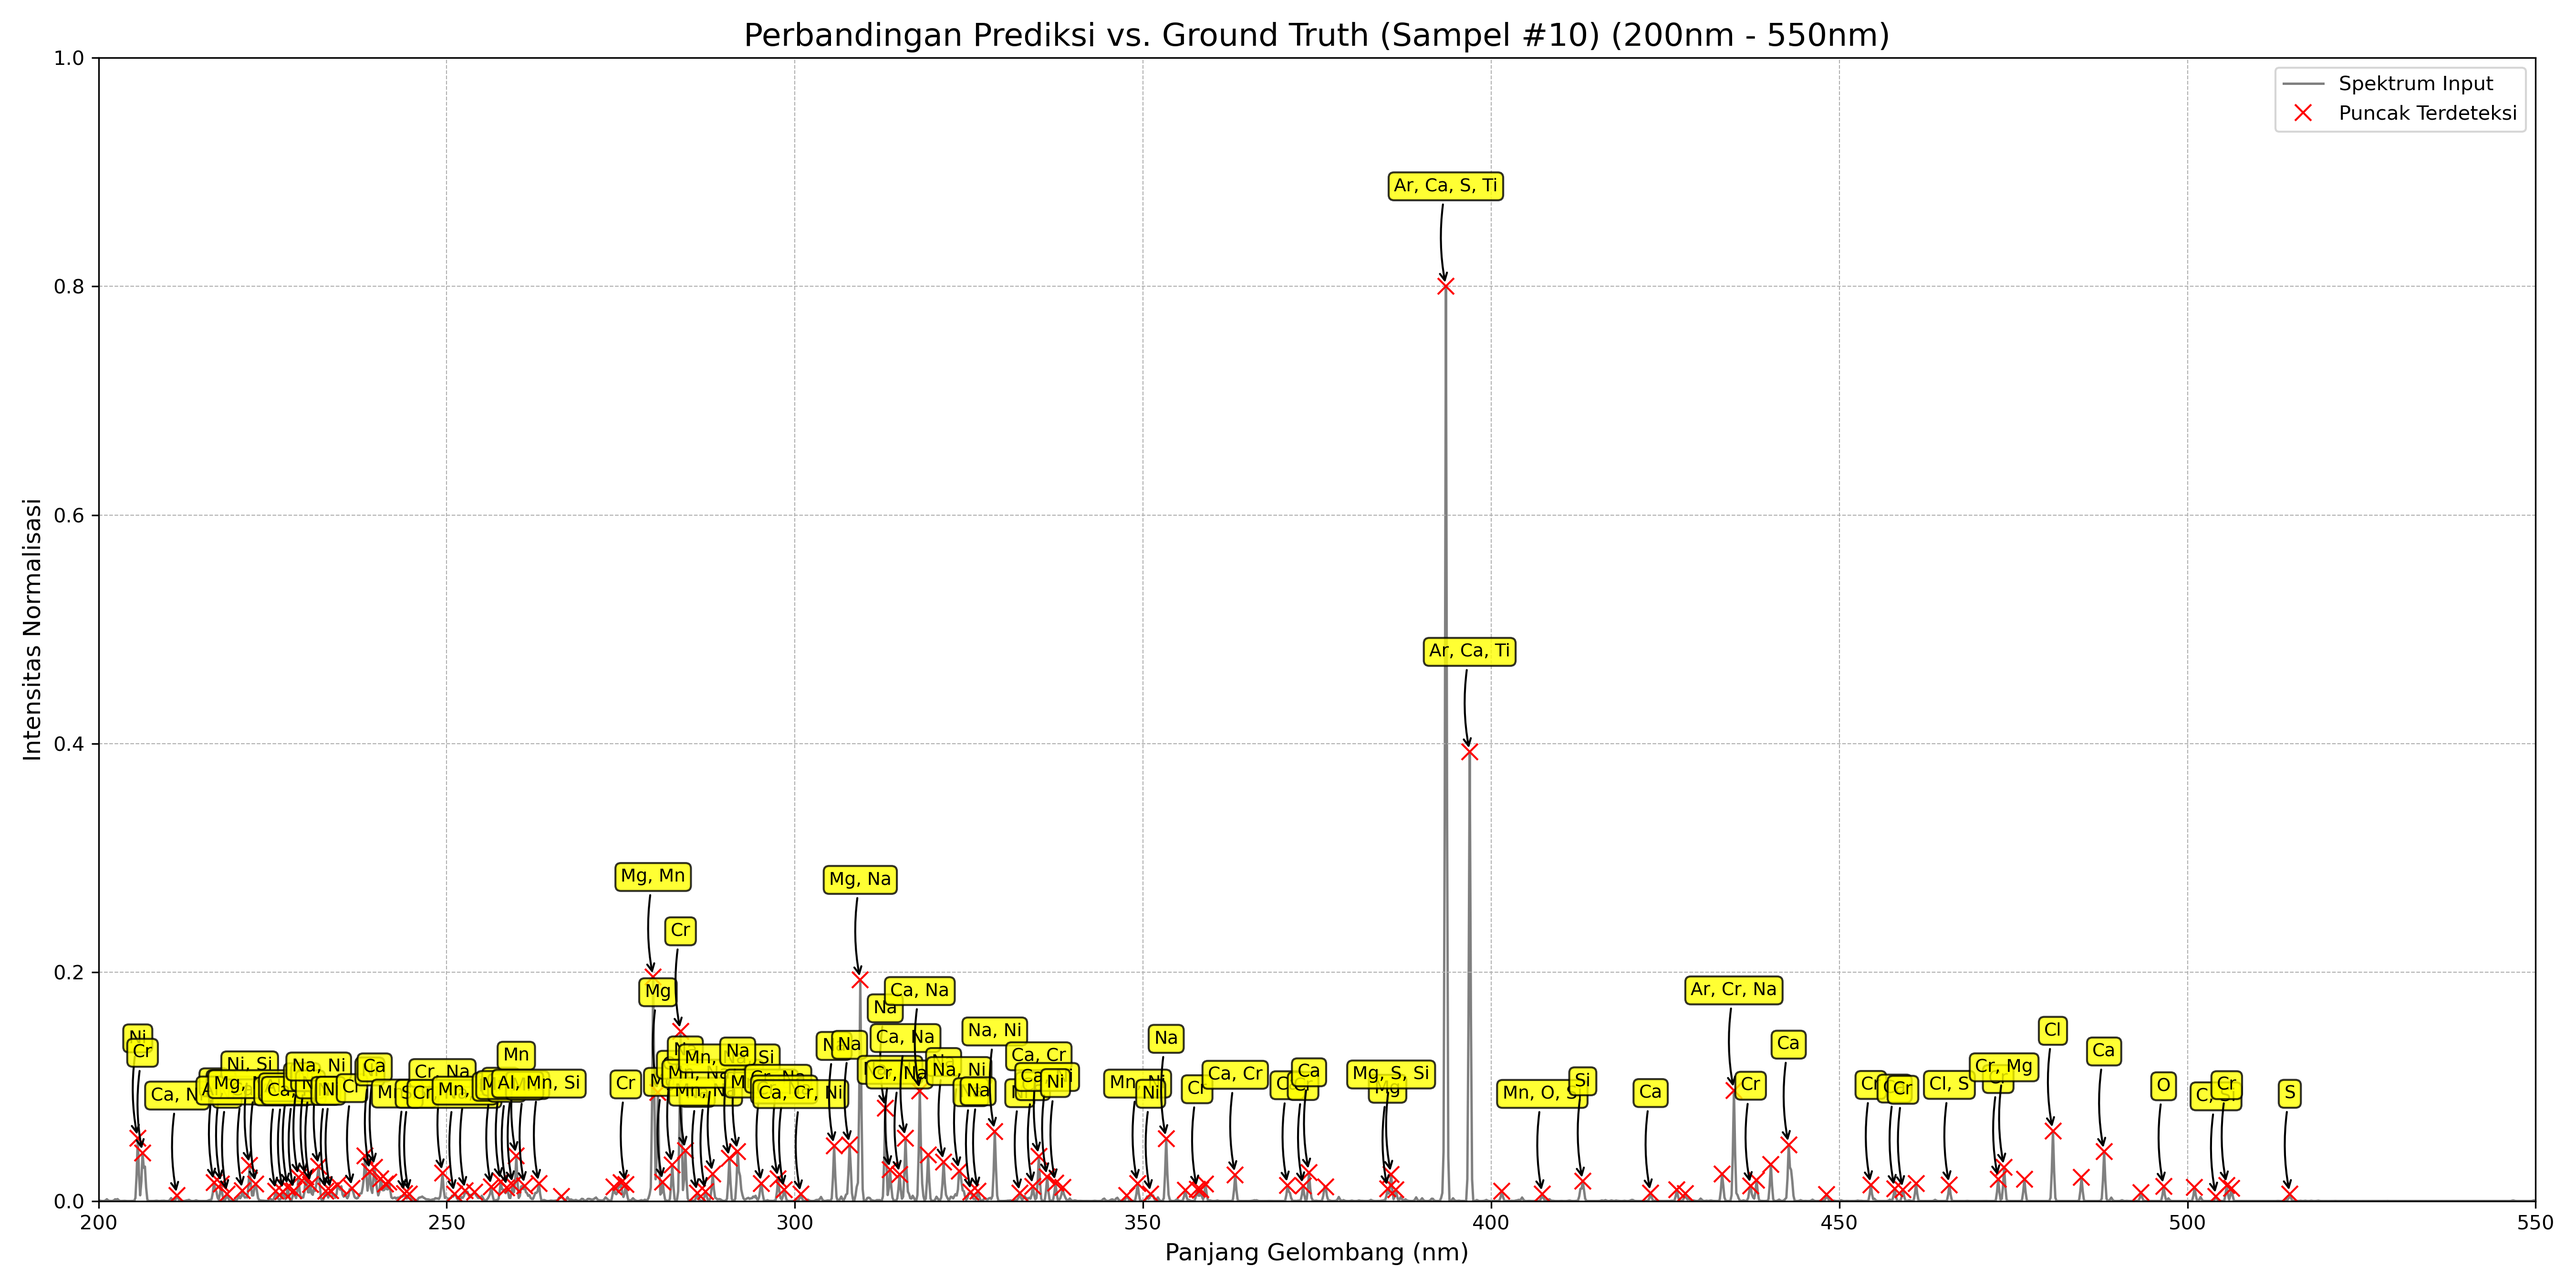
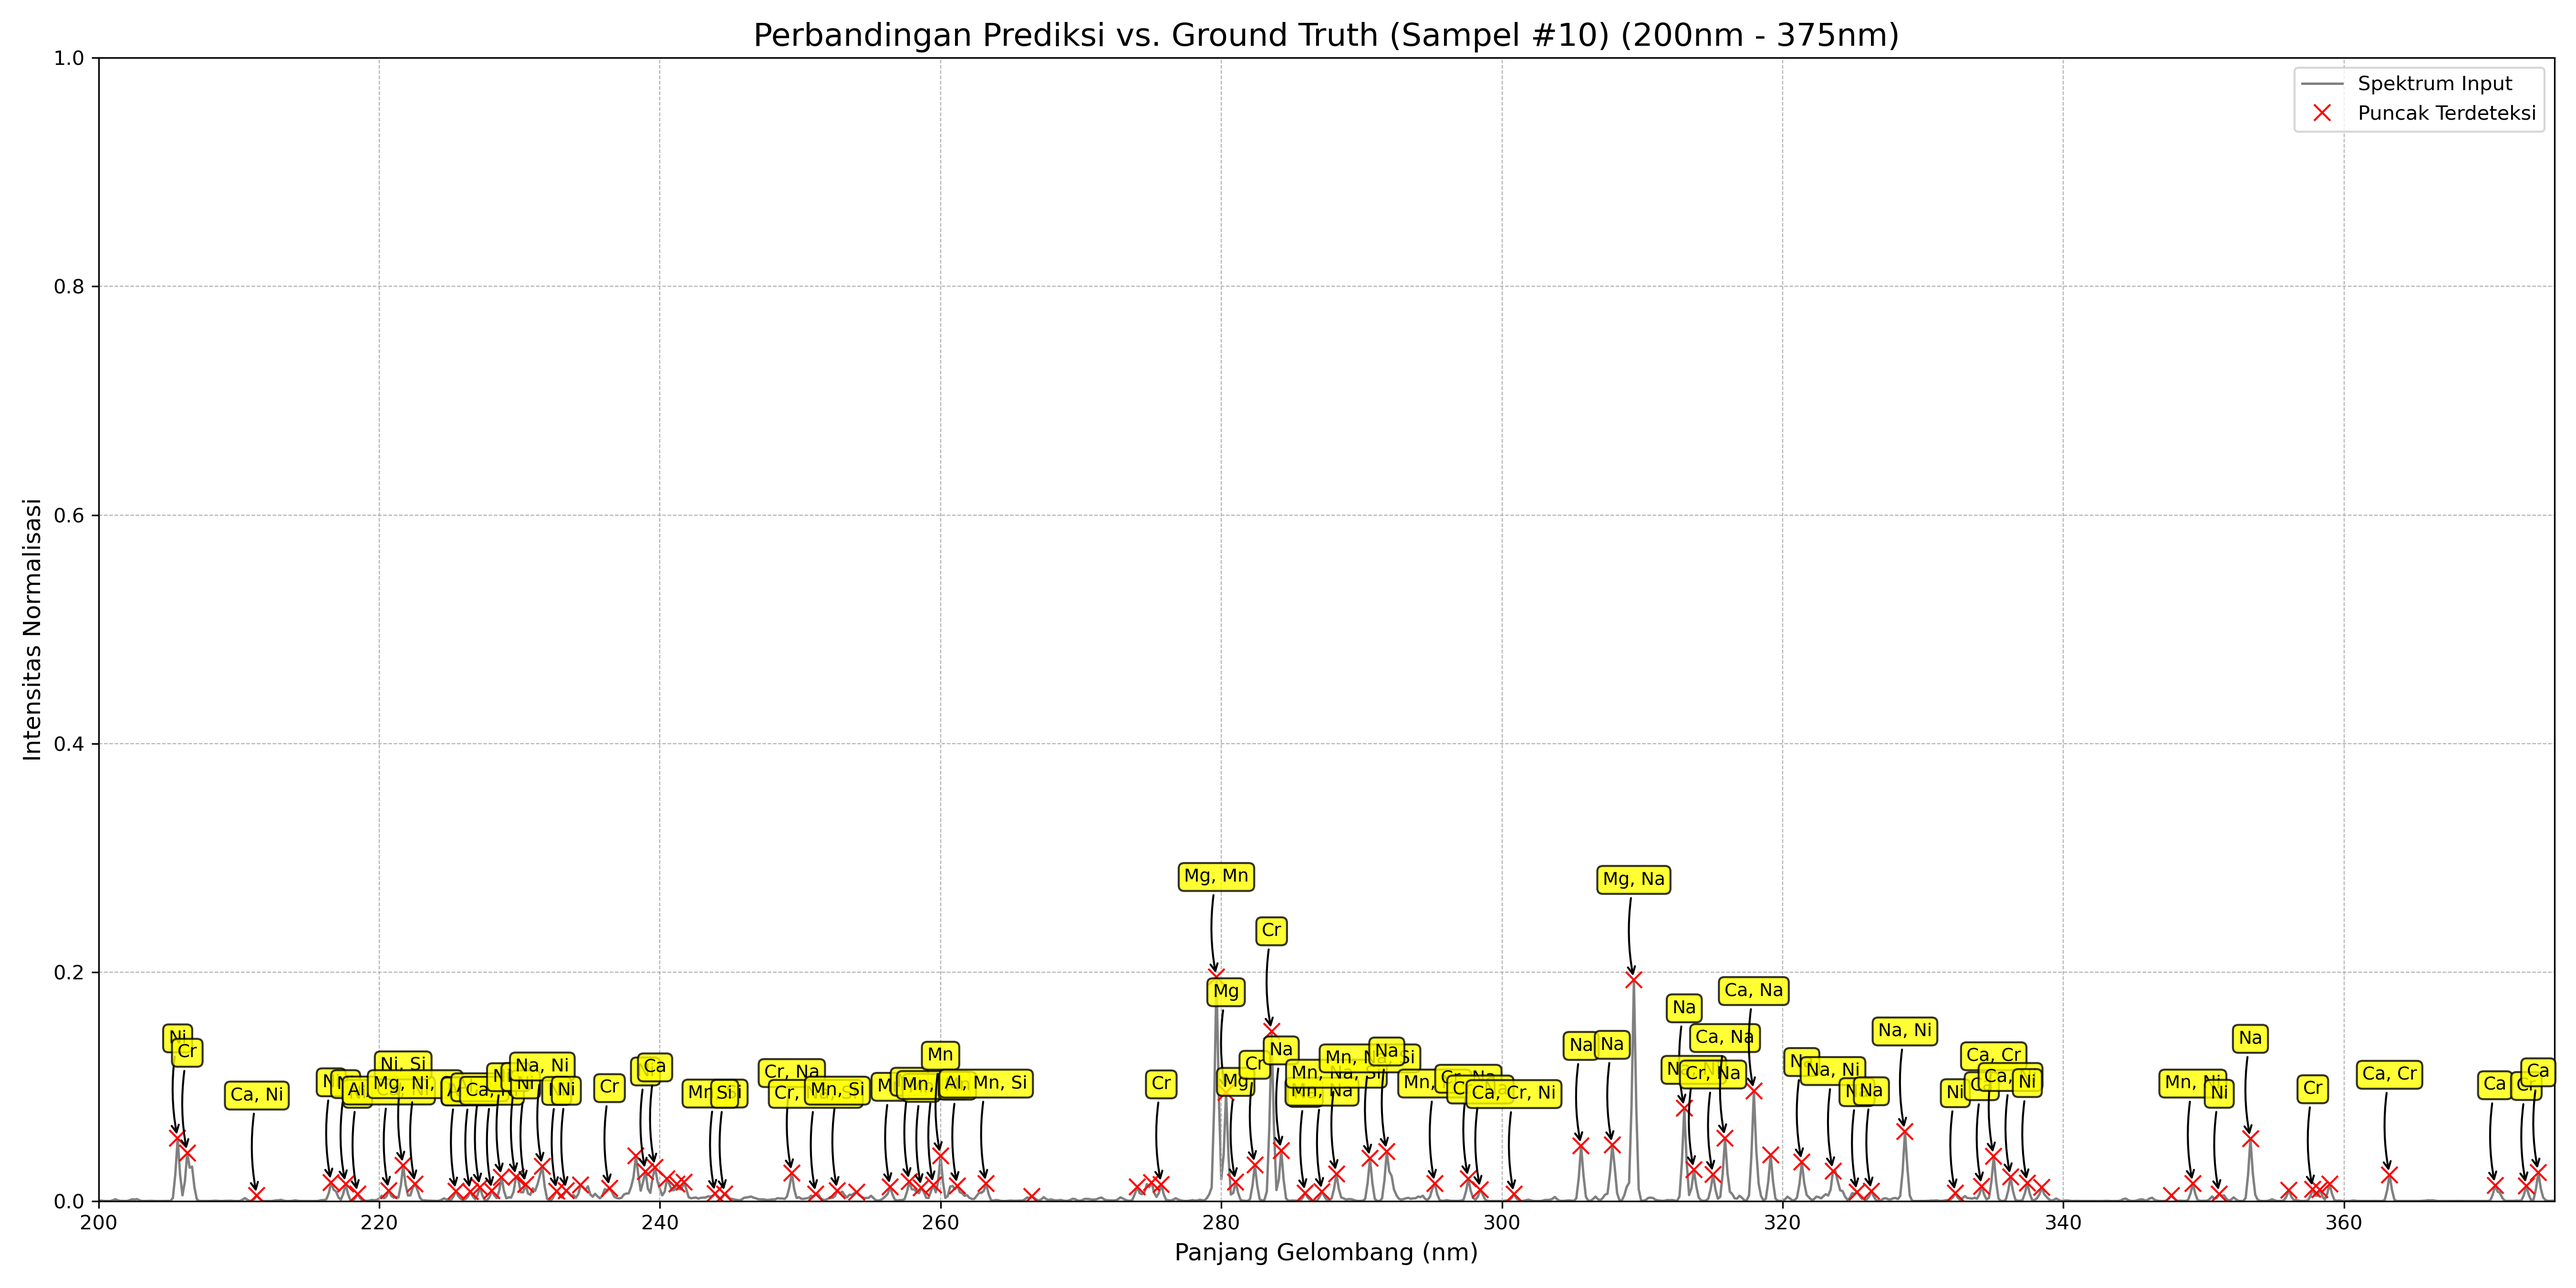
feat: Add ASC data analysis and enhance plotting capabilities
- Implemented  function to process high-resolution .asc spectrum data, including downsampling.
- Modified  to generate four split plots (200-375nm, 375-550nm, 550-725nm, 725-900nm) for both H5 and .asc datasets.
- Ensured all generated plots are saved as PNG files.
- Added functionality to save detailed prediction information for .asc data to text files.
- Maintained the specified plot style and peak detection parameters (, , ).

diff --git a/engine/plot_predictions.py b/engine/plot_predictions.py
@@ -7,6 +7,7 @@ import json
 import os
 import matplotlib.pyplot as plt
 import logging
+import pandas as pd # Added pandas import
 from train import InformerModel, set_seed
 from scipy.signal import find_peaks
 
@@ -39,8 +40,8 @@ def create_static_plot(
     logger = logging.getLogger('AnalysisToolkit')
     logger.info("Membuat plot statis dengan Matplotlib...")
 
-    ranges = [(200, 550), (550, 900)]
-    range_titles = ["200nm - 550nm", "550nm - 900nm"]
+    ranges = [(200, 375), (375, 550), (550, 725), (725, 900)]
+    range_titles = ["200nm - 375nm", "375nm - 550nm", "550nm - 725nm", "725nm - 900nm"]
 
     for i, (wl_min, wl_max) in enumerate(ranges):
         # Filter data for the current wavelength range
@@ -156,6 +157,43 @@ def save_prediction_details_to_txt(
             f.write(f"{peak_wl:.3f}\t{peak_int:.3f}\t{predicted_str}\t{true_str}\n")
     logger.info(f"Detail prediksi berhasil disimpan di {output_filename}")
 
+def analyze_from_asc(model, element_map, config, asc_file_path, peak_height, prominence, distance, threshold):
+    print(f"\n--- Menganalisis Data Lapangan dari File: {os.path.basename(asc_file_path)} ---")
+    def _prepare_asc_file(asc_path, h5_grid_path):
+        df = pd.read_csv(asc_path, sep=r'\s+', names=['wavelength', 'intensity'], comment='#')
+        original_wl, original_spec = df['wavelength'].values, df['intensity'].values
+        with h5py.File(h5_grid_path, 'r') as f: target_wl = f['wavelengths'][:]
+        baseline = np.percentile(original_spec, 5)
+        spec_corrected = original_spec - baseline
+        spec_corrected[spec_corrected < 0] = 0
+        max_val = np.max(spec_corrected)
+        spec_normalized = (spec_corrected / max_val) * 0.8 if max_val > 0 else spec_corrected
+        return target_wl, np.interp(target_wl, original_wl, spec_normalized).astype(np.float32)
+    try:
+        wavelengths, spectrum = _prepare_asc_file(asc_file_path, config["paths"]["h5_dataset_path"])
+    except Exception as e:
+        print(f"Gagal memproses file .asc: {e}")
+        return
+    class_names, device = list(element_map.keys()), next(model.parameters()).device
+    input_tensor = torch.from_numpy(spectrum[np.newaxis, :, np.newaxis]).to(device)
+    with torch.no_grad():
+        logits = model(input_tensor)
+        probabilities = torch.sigmoid(logits).squeeze(0).cpu().numpy()
+    predictions = (probabilities > threshold).astype(int)
+
+    # Calculate peak_indices here for ASC data
+    peak_indices, _ = find_peaks(spectrum, height=peak_height, distance=distance, prominence=prominence)
+
+    # Call static plot function
+    base_output_path = os.path.join(os.path.dirname(__file__), '..', 'images', f'prediction_plot_{os.path.basename(asc_file_path).replace('.asc', '')}.png')
+    create_static_plot(wavelengths, spectrum, predictions, probabilities, class_names, None, peak_height, prominence, distance, title_prefix=f"Prediksi pada Data Lapangan ({os.path.basename(asc_file_path)})", base_output_path=base_output_path)
+
+    # Save prediction details to text file for ASC data
+    output_filename = os.path.join(os.path.dirname(__file__), '..', 'images', f'prediction_details_{os.path.basename(asc_file_path).replace('.asc', '')}.txt')
+    os.makedirs(os.path.dirname(output_filename), exist_ok=True)
+    save_prediction_details_to_txt(wavelengths, spectrum, predictions, probabilities, class_names, None, peak_indices, output_filename=output_filename)
+
+
 def load_model(model_path, model_config, device):
     """Memuat model Informer dari file .pth."""
     model = InformerModel(**model_config)
@@ -198,7 +236,8 @@ if __name__ == '__main__':
         "paths": {
             "h5_dataset_path": '/Volumes/Private-C/Private-C-backup/skripsi-21/engine/dataset-50.h5',
             "element_map_path": '/Volumes/Private-C/Private-C-backup/skripsi-21/engine/element-map-18a.json',
-            "model_path": '/Volumes/Private-C/Private-C-backup/skripsi-21/engine/data/informer_multilabel_model-2.pth'
+            "model_path": '/Volumes/Private-C/Private-C-backup/skripsi-21/engine/data/informer_multilabel_model-2.pth',
+            "asc_data_dir": '/Volumes/Private-C/Private-C-backup/skripsi-21/engine/data/telur/' # New: Directory for .asc files
         },
         "model_params": {
             "input_dim": 1,
@@ -230,7 +269,7 @@ if __name__ == '__main__':
     # Muat model
     model = load_model(config["paths"]["model_path"], config["model_params"], DEVICE)
 
-    # Analisis dan plot hasil
+    # Analisis dan plot hasil dari H5 dataset
     analyze_from_h5(
         model,
         element_map,
@@ -242,4 +281,21 @@ if __name__ == '__main__':
         config["analysis_params"]["distance"],
         config["analysis_params"]["threshold"]
     )
+
+    # Analisis dan plot hasil dari file .asc
+    # Ganti 'sample.asc' dengan nama file .asc yang ingin Anda analisis
+    asc_file_to_analyze = os.path.join(config["paths"]["asc_data_dir"], 'Grup-1.asc') # Placeholder
+    if os.path.exists(asc_file_to_analyze):
+        analyze_from_asc(
+            model,
+            element_map,
+            config,
+            asc_file_to_analyze,
+            config["analysis_params"]["peak_height"],
+            config["analysis_params"]["prominence"],
+            config["analysis_params"]["distance"],
+            config["analysis_params"]["threshold"]
+        )
+    else:
+        print(f"Peringatan: File .asc tidak ditemukan di {asc_file_to_analyze}. Melewatkan analisis .asc.")
 
